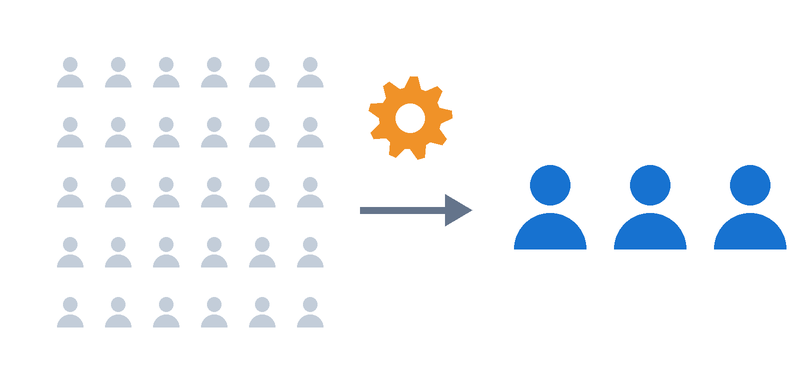
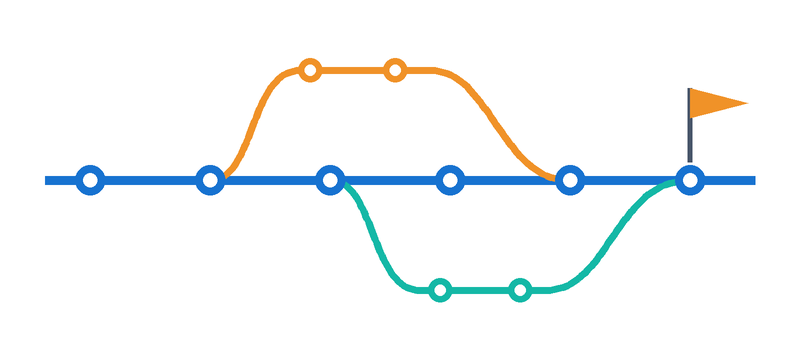
SimSimE thumbnail: SCM branch graph

diff --git a/projects.html b/projects.html
@@ -106,7 +106,7 @@
 
     <div class="pub">
       <div class="pub-thumb">
-        <img src="files/proj/release.png" alt="SimSimE automated firmware release pipeline diagram">
+        <img src="files/proj/release.png" alt="SimSimE version control branch and release diagram">
       </div>
       <div class="pub-body">
         <p class="pub-title">SimSimE (Automated Firmware Release System)</p>
